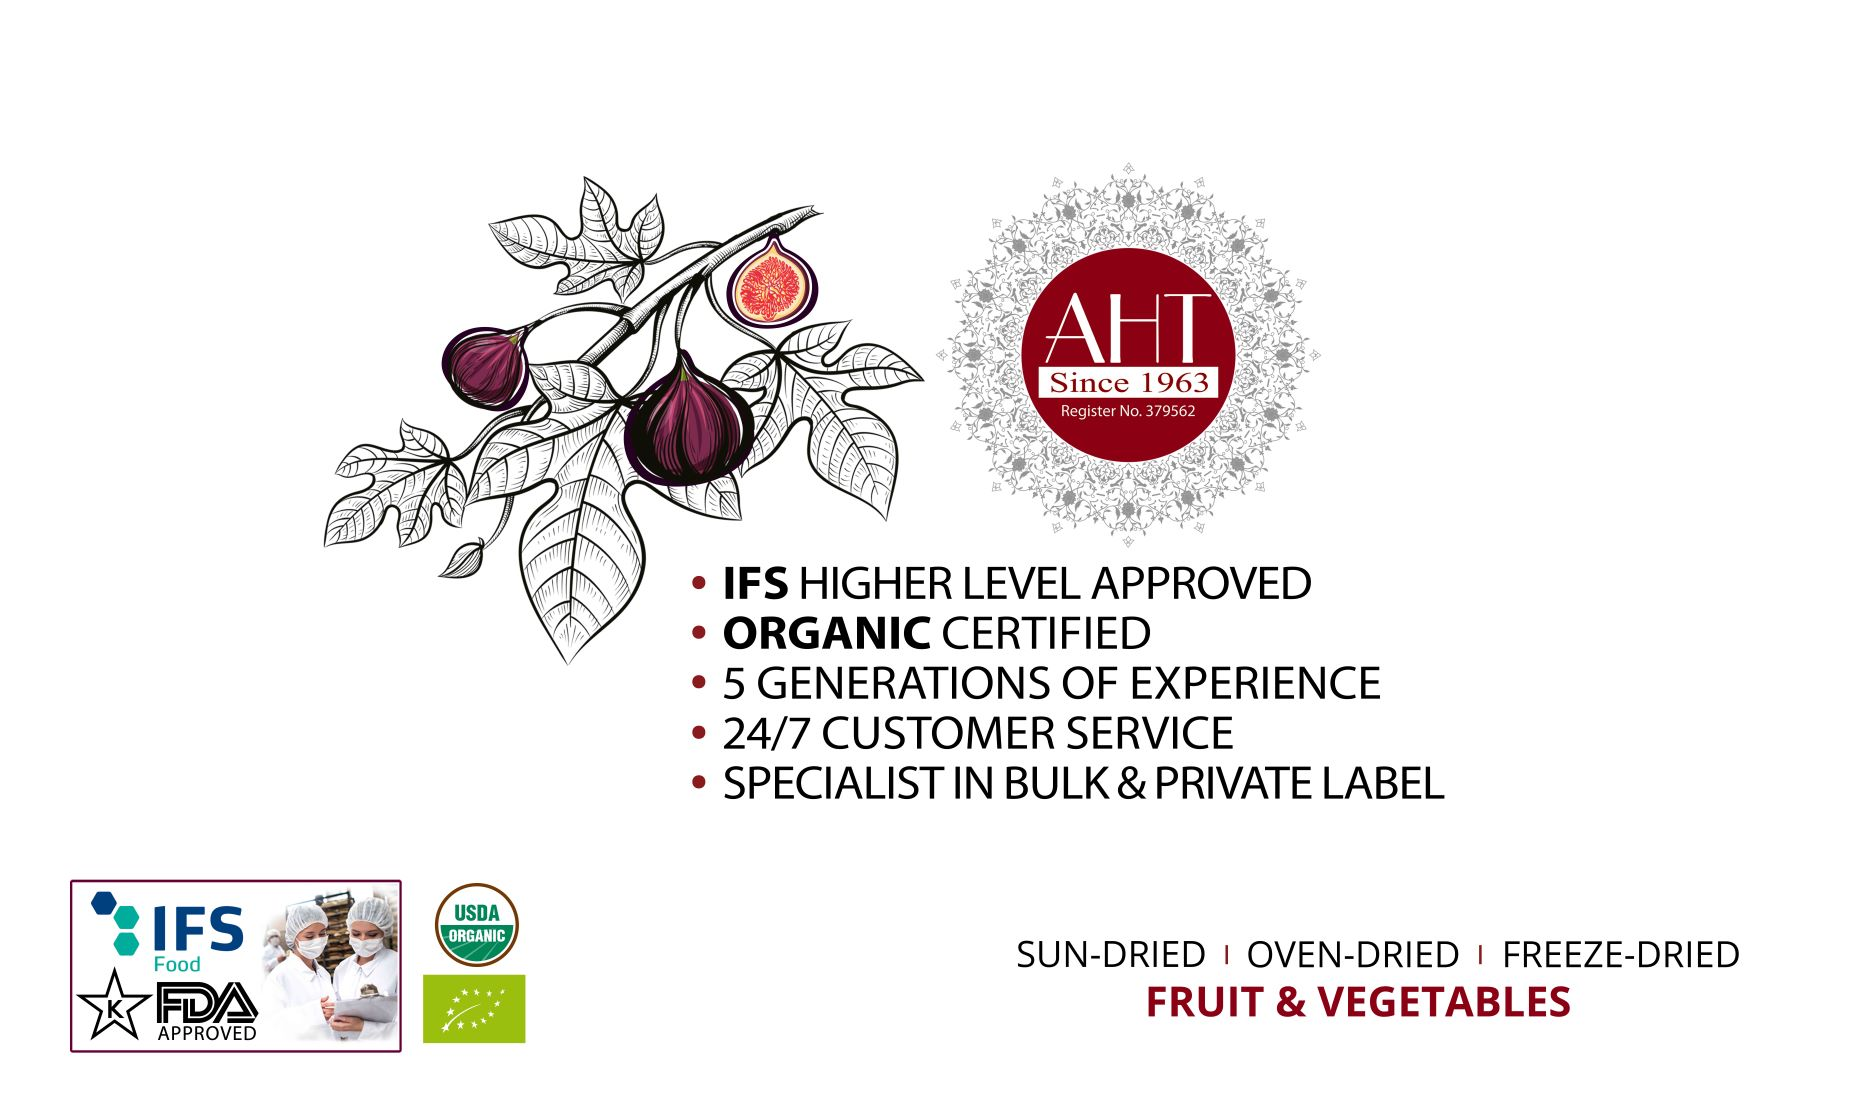
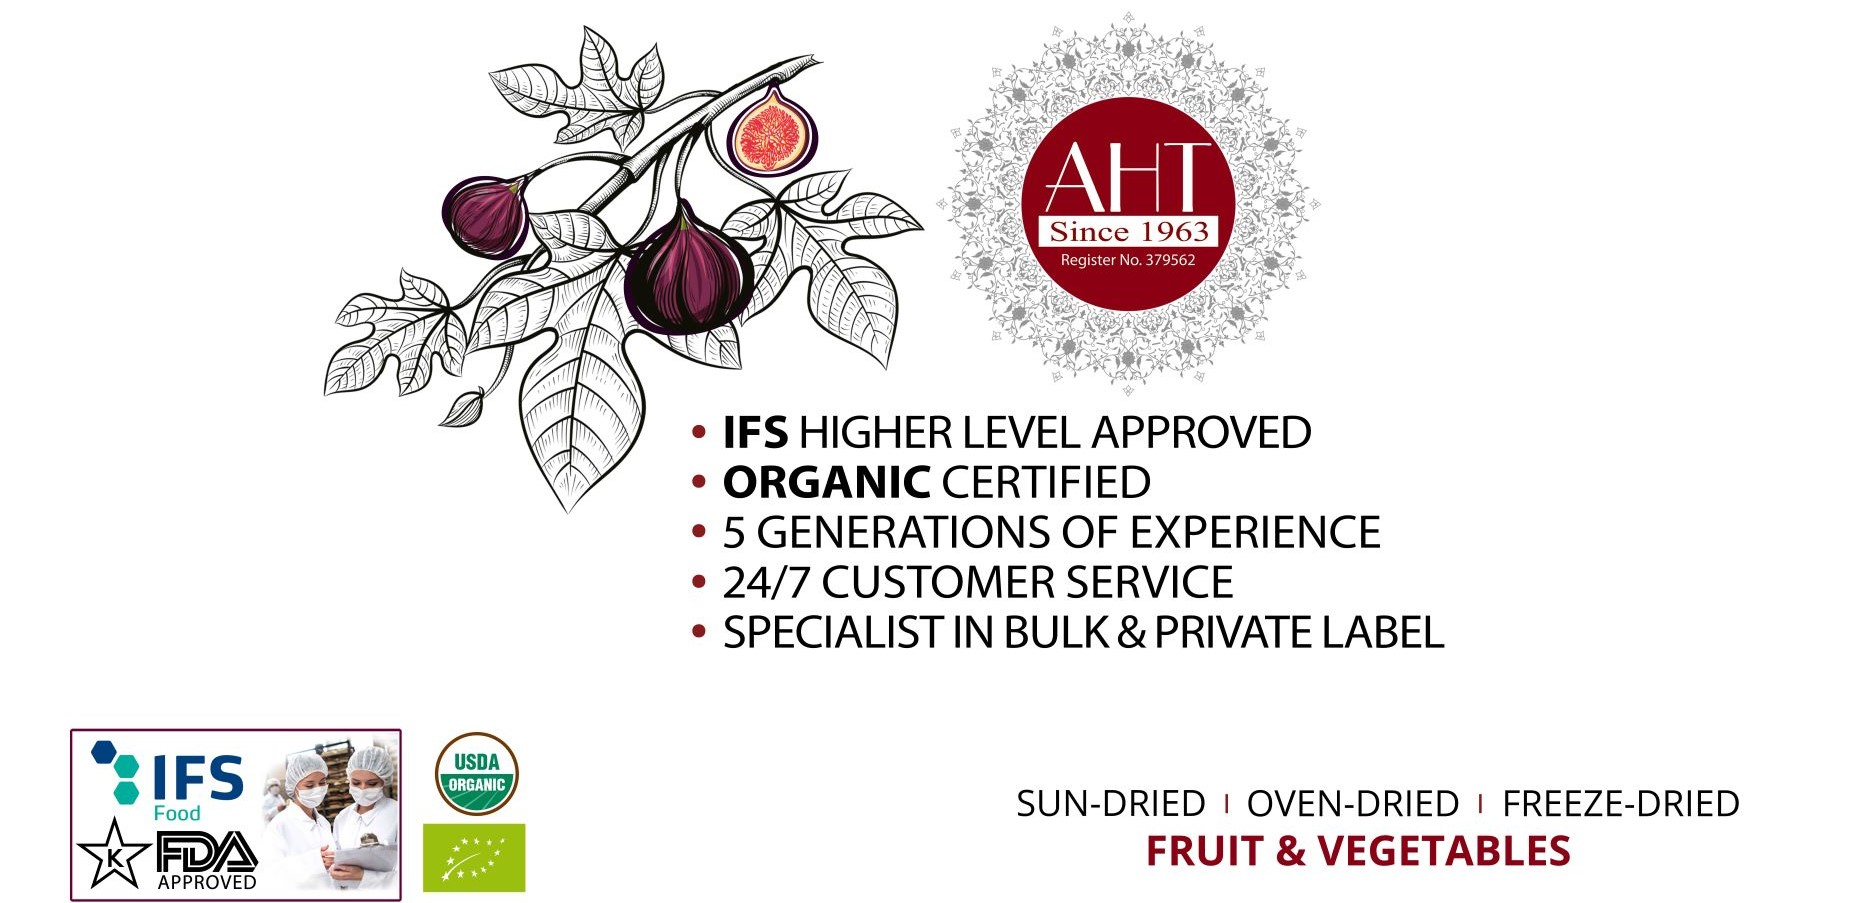
noroz slider

Changed region(s): [[0.1541, 0.031, 0.7703, 0.7442], [0.0308, 0.7752, 0.3081, 1.0], [0.5546, 0.8372, 0.9551, 0.9612]]

diff --git a/pages/index.js b/pages/index.js
@@ -44,14 +44,15 @@ export const getStaticProps = async () => {
 const Home = ({ /*popular ,*/ news, events }) => {
   const phoneSlid = [phoneSlider.Pista, phoneSlider.Figs, phoneSlider.AHT];
   const deskSlid = [
+    desktopSlider.happy,
     desktopSlider.PistaD,
     desktopSlider.FigsD,
-    desktopSlider.AHTD,
+    desktopSlider.AHTD
   ];
 
   return (
     <>
-      {/* SLIDERS */}
+      {/* SLIDERS */} 
       <div className="w-full">
         <Swiper
           modules={[Navigation, Pagination, Autoplay]}
@@ -62,7 +63,7 @@ const Home = ({ /*popular ,*/ news, events }) => {
           style={{ margin: "0 0 2rem 0" }}>
           {deskSlid?.map((slide, index = 0) => (
             <SwiperSlide key={`${index++}`}>
-              <div className="mt-16 md:mt-2" key={index++}>
+              <div className="mt-16 md:mt-36" key={index++}>
                 <Image
                   key={index++}
                   className="w-9/12 mx-auto hidden md:block"

diff --git a/assets/desktopSlider/index.js b/assets/desktopSlider/index.js
@@ -1,7 +1,8 @@
 const desktopSlider = {
     AHTD: require('./AHTD.jpg'),
     FigsD: require('./FigsD.jpg'),
-    PistaD: require('./PistachiosD.jpg')
+    PistaD: require('./PistachiosD.jpg'),
+    happy: require('./happy.jpg')
 }
 
 
